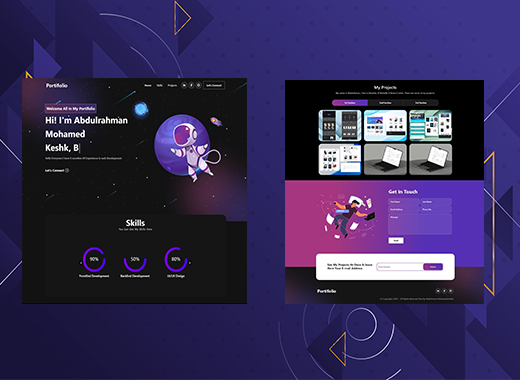
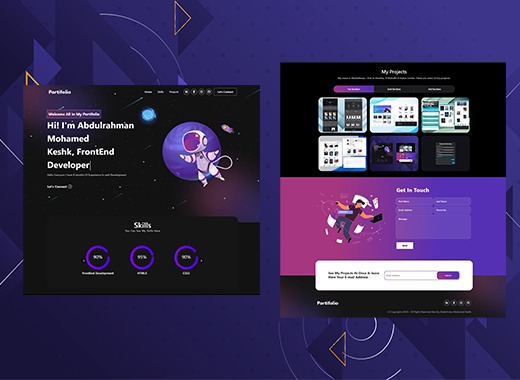
some updates

Changed region(s): [[0.0308, 0.1447, 0.9846, 0.8395], [0.2154, 0.5789, 0.3077, 0.6079], [0.4308, 0.55, 0.4615, 0.5789]]

diff --git a/src/components/Connect.jsx b/src/components/Connect.jsx
@@ -1,9 +1,15 @@
-import React from 'react';
+import React, { useRef } from 'react';
 import contactImg from '../assets/images/contact-img.svg'
 import EmailForm from './EmailForm';
 import { useForm, ValidationError } from '@formspree/react';
+import Lottie from "lottie-react";
+import successAnim from '../assets/Animations/successAnim2.json'
 const Connect = () => {
     const [state, handleSubmit] = useForm("xldryblj");
+    const mainForm = useRef(null)
+    const restForm = () => {
+        setTimeout(() => { mainForm.current.reset() }, 1500)
+    }
     return (
         <section id="connect">
             <div className="connect-section container">
@@ -13,7 +19,7 @@ const Connect = () => {
                     </div>
                     <div className="connect-form p-0 col-11 col-lg-6">
                         <h2 className="connect-title w-100 text-center text-lg-start">Get In Touch</h2>
-                        <form onSubmit={handleSubmit}>
+                        <form ref={mainForm} onSubmit={handleSubmit}>
                             <div className="container-fluid">
                                 <div className="row justify-content-center mx-auto">
                                     <div className="input-div col-12 col-lg-6">
@@ -31,7 +37,7 @@ const Connect = () => {
                                         />
                                     </div>
                                     <div className="input-div col-12 col-lg-6">
-                                        <input type="tel" name="phoneNumber" id="phoneNumber" placeholder="Phone No." />
+                                        <input required type="tel" name="phoneNumber" id="phoneNumber" placeholder="Phone No." />
                                     </div>
                                     <div className="input-div col-12 col-lg-12">
                                         <textarea name="message" id="message" placeholder="Message" ></textarea>
@@ -42,10 +48,13 @@ const Connect = () => {
                                         />
                                     </div>
                                 </div>
-                                <button className="connect-send-btn mx-auto mx-lg-2" type="submit" disabled={state.submitting}><span>Send</span></button>
+                                <button onClick={restForm} className="connect-send-btn mx-auto mx-lg-2" type="submit" disabled={state.submitting}><span>{state.submitting ? "Sending..." : "Send"}</span></button>
                             </div>
                         </form>
-                            {state.succeeded && (<p>Thanks for joining!</p>)}
+                        {state.succeeded && (<div className="connect-send-success d-flex align-items-center">
+                            <Lottie style={{ width: "55px", height: "55px" }} loop={false} animationData={successAnim} />
+                            <p className="d-flex align-items-center m-0">Your message has been sent successfully 👌</p>
+                        </div>)}
                     </div>
                 </div>
             </div>

diff --git a/src/components/Main.jsx b/src/components/Main.jsx
@@ -1,7 +1,7 @@
 import Typewriter from './TypeWriterEffect';
 import mainImg from '../assets/images/main-img.svg'
 import React from 'react';
-const Main = () => {
+const Main = () => { 
     return (
         <main id="home">
             <div className="main-section container-fluid">
@@ -10,13 +10,13 @@ const Main = () => {
                         <div className='welcome'>Welcome All In My Portifolio</div>
                         <p className='my-type-writer'>Hi! I'm Abdulrahman Mohamed <br /> Keshk,
                             <Typewriter
-                                texts={[" FullStack Web Developer", " FrontEnd Developer", " BackEnd Developer"]}
+                                texts={[" FrontEnd Developer", "  React JS Developer", " Web Developer"]}
                                 speed={200}
                                 deleteSpeed={100}
                                 delay={1000}
                             />
                         </p>
-                        <p className='sup-paragraph'>Hello Everyone I have 8 monthes Of Experience In web Development</p>
+                        <p className='sup-paragraph'>Hello Everyone I have 8 months Of Experience In web Development</p>
                         <a className="main-connect" href="#connect" rel="noopener noreferrer"><span>Let's Connect</span>
                             <svg className='connect-arrow-icon' xmlns="http://www.w3.org/2000/svg" viewBox="0 0 16 16" width="30" height="30" fill="currentColor"><path fillRule="evenodd" d="M1 8a7 7 0 1 0 14 0A7 7 0 0 0 1 8zm15 0A8 8 0 1 1 0 8a8 8 0 0 1 16 0zM4.5 7.5a.5.5 0 0 0 0 1h5.793l-2.147 2.146a.5.5 0 0 0 .708.708l3-3a.5.5 0 0 0 0-.708l-3-3a.5.5 0 1 0-.708.708L10.293 7.5H4.5z" /></svg>
                         </a>

diff --git a/src/components/Skills.jsx b/src/components/Skills.jsx
@@ -32,12 +32,14 @@ const Skill = () => {
                     <h5>You Can See My Skills Here</h5>
                     <Carousel className="custom-carousel" responsive={responsive} infinite={true}>
                         <SkillProgressBar percentage={90} label={"FrontEnd Development"} />
-                        <SkillProgressBar percentage={50} label={"BackEnd Development"} />
-                        <SkillProgressBar percentage={80} label={"UI/UX Design"} />
-                        <SkillProgressBar percentage={60} label={"Cyber Securety"} />
-                        <SkillProgressBar percentage={85} label={"Data science"} />
-                        <SkillProgressBar percentage={75} label={"Node JS"} />
-                        <SkillProgressBar percentage={65} label={"Graphic Design"} />
+                        <SkillProgressBar percentage={95} label={"HTML5"} />
+                        <SkillProgressBar percentage={90} label={"CSS3"} />
+                        <SkillProgressBar percentage={90} label={"Responsive Design"} />
+                        <SkillProgressBar percentage={85} label={"JavaScript (ES6+)"} />
+                        <SkillProgressBar percentage={80} label={"React JS"} />
+                        <SkillProgressBar percentage={90} label={"Bootstrap"} />
+                        <SkillProgressBar percentage={85} label={"Version Control (Git/GitHub)"} />
+                        <SkillProgressBar percentage={80} label={"Cross-Browser Compatibility"} />
                     </Carousel>
                 </div>
             </div>

diff --git a/src/App.css b/src/App.css
@@ -191,7 +191,7 @@
 }
 
 .my-type-writer {
-  width: 90%;
+  width: 95%;
 }
 
 .type-writer,
@@ -562,13 +562,32 @@
   color: white;
 }
 
+.connect-send-btn:disabled:hover{
+  color: #000000;
+}
+
 .connect-send-btn:hover::before {
   width: 100%;
 }
 
 .connect-send-btn:disabled {
   cursor: not-allowed;
-  background-color: gray;
+  opacity: 0.6;
+}
+
+.connect-send-btn:disabled:hover::before{
+  width: 0;
+}
+
+.connect-send-success{
+  color: white;
+  font-size: 20px;
+  text-align: center;
+  width: 100%;
+  display: flex;
+  align-items: center;
+  justify-content: center;
+  margin-top: 20px;
 }
 
 .email-section {
@@ -708,6 +727,10 @@ footer {
     width: 90% !important;
   }
 
+  .my-type-writer {
+    width: 100%;
+  }
+
   .connect-link {
     width: 125px;
     height: 50px;
@@ -835,5 +858,41 @@ footer {
 
   .skills-container{
     width: 95%;
+  }
+
+  .email-box button{
+    font-size: 15px;
+  }
+}
+
+@media (max-width: 345px){
+  .navbar-brand {
+    font-size: 22px !important;
+  }
+
+  .nav-item .nav-link {
+    font-size: 15px;
+  }
+  .icon-link {
+    width: 38px;
+    height: 38px;
+    font-size: 8px;
+  }
+  .connect-link {
+    width: 85px;
+    height: 40px;
+    font-size: 10px !important;
+  }
+
+  .projects-nav li button {
+    font-size: 11px;
+  }
+
+  .email-box{
+    height: 55px;
+  }
+
+  .email-box button{
+    font-size: 13px;
   }
 }

diff --git a/build/index.html b/build/index.html
@@ -1,1 +1,1 @@
-<!doctype html><html lang="en"><head><meta charset="utf-8"/><link rel="icon" href="/My-Portifoliocircle-logo.ico"/><meta name="viewport" content="width=device-width,initial-scale=1"/><meta name="description" content="Abulrahman Mohamed Keshk Portifolio"/><link rel="apple-touch-icon" href="/My-Portifolio/circle-logo.png"/><link rel="manifest" href="/My-Portifolio/manifest.json"/><title>React Portifolio</title><script defer="defer" src="/My-Portifolio/static/js/main.9e8fc034.js"></script><link href="/My-Portifolio/static/css/main.b8d8b8b2.css" rel="stylesheet"></head><body><noscript>You need to enable JavaScript to run this app.</noscript><div id="root"></div></body></html>
+<!doctype html><html lang="en"><head><meta charset="utf-8"/><link rel="icon" href="/My-Portifoliocircle-logo.ico"/><meta name="viewport" content="width=device-width,initial-scale=1"/><meta name="description" content="Abulrahman Mohamed Keshk Portifolio"/><link rel="apple-touch-icon" href="/My-Portifolio/circle-logo.png"/><link rel="manifest" href="/My-Portifolio/manifest.json"/><title>React Portifolio</title><script defer="defer" src="/My-Portifolio/static/js/main.274ae783.js"></script><link href="/My-Portifolio/static/css/main.5e6c4f1c.css" rel="stylesheet"></head><body><noscript>You need to enable JavaScript to run this app.</noscript><div id="root"></div></body></html>
